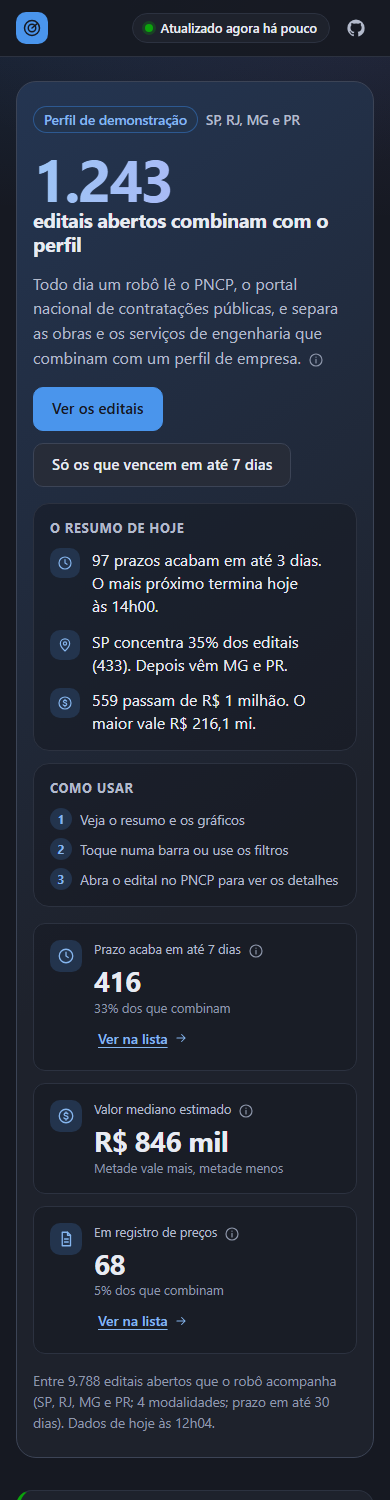
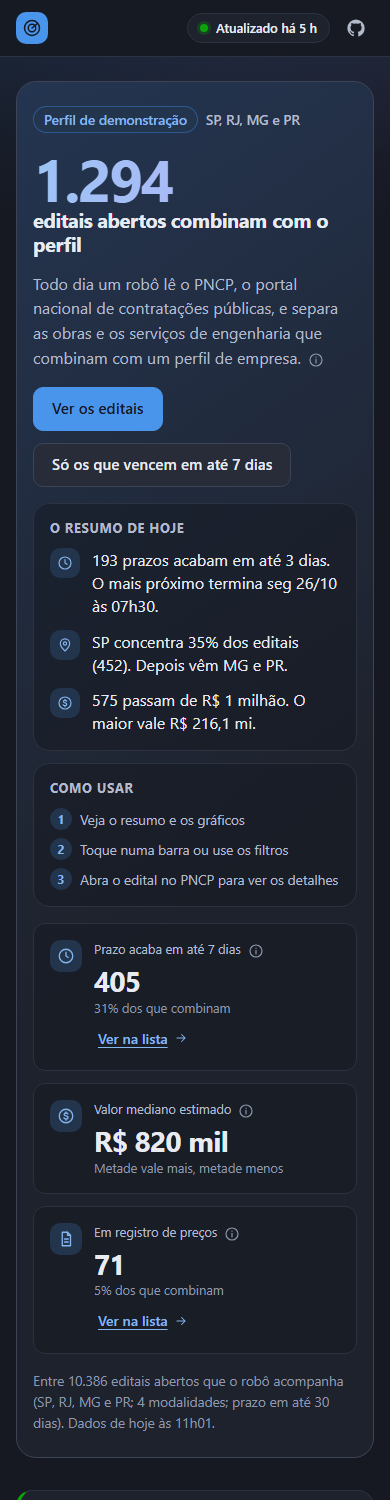
docs: README e fotos com a execução de 24/10/2026
- Resultado da execução de 24/10: 10.386 abertos acompanhados, 1.367 no filtro (1.294 combinam e
  73 em parte), 2.027 lidos e 774 novos em 18 min, 100 conferidos um a um, 5 rodadas agendadas
  seguidas com sucesso (20 a 24/10)
- Exemplo do Telegram com os dados reais de 24/10
- Números medidos: rodada de 24/10 (211 chamadas, nenhum 429)
- Limitação: a conferência diária faz até 100 consultas por rodada (em 24/10 eram 197; os outros
  97 entram nos dias seguintes)
- Decisões: o edital repetido também junta quando o prazo difere em até 1 minuto
- Fotos do painel refeitas a partir da página no ar

diff --git a/README.md b/README.md
@@ -34,7 +34,7 @@ O **PNCP** (Portal Nacional de Contratações Públicas) reúne as licitações 
 
 O Radar faz essa busca sozinho: um robô agendado lê o PNCP, dá uma nota de 0 a 100 a cada edital, separa os que combinam com o perfil de uma empresa, avisa no Telegram e mantém um painel público com os que ainda estão abertos. Construí o projeto para mostrar, na prática, uma automação agendada de ponta a ponta: roda sozinha todos os dias, sem servidor e sem custo, e **avisa quando para de funcionar**.
 
-**Resultado da execução de 23/10/2026:** 9.788 editais abertos acompanhados em SP, RJ, MG e PR, dos quais 1.317 passaram pelo filtro do perfil (1.243 combinam e 74 combinam só em parte). A rodada leu 2.244 registros do PNCP (1.059 novos) em 20 minutos, conferiu um a um 95 editais com prazo próximo (1 já estava excluído) e não teve nenhum bloqueio da API. Desde 20/10 o robô rodou sozinho 4 vezes (20, 21, 22 e 23/10), todas com sucesso.
+**Resultado da execução de 24/10/2026:** 10.386 editais abertos acompanhados em SP, RJ, MG e PR, dos quais 1.367 passaram pelo filtro do perfil (1.294 combinam e 73 combinam só em parte). A rodada leu 2.027 registros do PNCP (774 novos) em 18 minutos, conferiu um a um 100 editais com prazo próximo (1 estava diferente da lista e foi atualizado) e não teve nenhum bloqueio da API. Desde 20/10 o robô rodou sozinho 5 vezes (de 20 a 24/10), todas com sucesso.
 
 > O perfil que vem no projeto é de **demonstração**: uma construtora de médio porte (obras e manutenção predial) em SP, RJ, MG e PR. [Veja abaixo exatamente o que ele considera.](#-qual-perfil-está-configurado) O painel é um apoio, não uma recomendação: confira sempre o edital no PNCP.
 
@@ -129,28 +129,32 @@ Se uma empresa pedir outro filtro ou outra coluna, o dado entra e passa a aparec
 
 ## 📲 O que chega no Telegram
 
-Exemplo no formato atual, com os dados reais de 22/10/2026 (recortado):
+Exemplo no formato atual, com os dados reais de 24/10/2026 (recortado):
 
 ```
-📡 Radar PNCP · 22/10/2026
-87 editais novos combinam com o perfil, entre 812 novos lidos hoje. Os 10 que mais combinam:
+📡 Radar PNCP · 24/10/2026
+86 editais novos combinam com o perfil, entre 774 novos lidos hoje. Os 10 que mais combinam:
 🔎 Ver todos no painel
 
-Combina muito · Execução da obra de construção do novo Fórum da Comarca de São João do Paraíso.
-🏛 Tribunal de Justiça do Estado de Minas Gerais · 📍 Belo Horizonte / MG
-💰 R$ 11,7 mi · 📄 Concorrência Eletrônica nº 627/2026
-⏰ propostas até 16/11 09:00 (em 25 dias)
+Combina muito · Execução de Obras de Pavimentação Asfáltica na Estrada Água da Fonte, Objeto Vinculado ao Convênio Nº. 090/2026 – Secretaria de Infraestrutura e Logística –Seil com…
+🏛 Município de Farol · 📍 Farol / PR
+💰 R$ 13,5 mi · 📄 Concorrência Eletrônica nº 02/2026
+⏰ propostas de 26/10 até 11/11 08:55 (em 18 dias)
 🔗 PNCP · sistema de origem
 
 (...)
 
 ⏳ Prazos chegando (vencem em 2 a 7 dias)
 
-Combina · Contratação de Empresa Especializada para Execução de Serviços de Calçamento em Estradas Vicinais do Município, com Fornecimento de Materiais e Mão de Obra.
-🏛 Município de Brás Pires · 📍 Brás Pires / MG
-💰 R$ 245 mil · 📄 Concorrência Eletrônica nº 05/2026
-⏰ propostas até 26/10 07:59 (em 4 dias)
+Combina · Contratação de empresa especializada para execução da complementação da construção da Escola Municipal Tancredo Neves, no Bairro Dom Alexandre, município de Santa…
+🏛 Município de Santa Vitória · 📍 Santa Vitória / MG
+💰 R$ 1,1 mi · 📄 Concorrência Eletrônica nº CE 008/26
+⏰ propostas até 26/10 12:50 (em 2 dias)
 🔗 PNCP · sistema de origem
+
+(...)
+
+🔎 Mais 344 outros vencem nesse período: ver no painel
 ```
 
 Como ler: **Combina muito** é nota 80 ou mais, **Combina** vai de 60 a 79 e **Combina em parte** de 40 a 59. Abaixo de 40 o robô não avisa.
@@ -235,7 +239,7 @@ flowchart TD
 | Isolar o **cliente da API** em `pncp_client.py` | Só ele conhece URL e parâmetros; trocar de endpoint não espalha mudança |
 | Gravar por **upsert** em `numeroControlePNCP` | Editais mudam de situação e de prazo depois de publicados |
 | **Ler os alterados e conferir no PNCP** | Só a listagem por publicação nunca revê um edital já guardado. Detalhes em [`docs/qualidade-dados-pncp.md`](docs/qualidade-dados-pncp.md) |
-| **Juntar o edital repetido**, não esconder | O órgão às vezes publica o mesmo edital duas vezes (mesmo órgão, valor, prazo e texto). Os dois registros existem no PNCP, então o robô os junta num item só (o publicado por último é o principal) e mostra o número e o link do outro. No alerta, cada registro é conferido antes, para o link nunca apontar para um edital excluído |
+| **Juntar o edital repetido**, não esconder | O órgão às vezes publica o mesmo edital duas vezes (mesmo órgão, valor, texto e prazo, com até 1 minuto de diferença). Os dois registros existem no PNCP, então o robô os junta num item só (o publicado por último é o principal) e mostra o número e o link do outro. No alerta, cada registro é conferido antes, para o link nunca apontar para um edital excluído |
 | Dar a nota por **regras que se explicam**, sem IA | Cada nota vem com os motivos; dá para calibrar o perfil olhando o `--dry-run`. Regras firmes separam obra de compra, locação e serviço de escritório (consultoria, fiscalização, projeto); os casos reais estão em `tests/fixtures/casos_reais_filtro.json` |
 | Nunca deixar o **token do Telegram** vazar | O token vai na URL da API; os logs do `httpx` ficam em WARNING e as mensagens de erro passam por filtro |
 | Escrever o **texto em caixa normal** só na tela | Igual no Telegram e na página (mesmas regras em Python e TypeScript, com testes dos dois lados). O texto guardado não muda |
@@ -336,7 +340,7 @@ Há exemplos em [`queries/`](queries): editais abertos, volume por UF, qualidade
 
 Cada execução vira uma linha em `pipeline_runs`: início, fim, duração, status (`success`, `partial`, `failed`), janela, buscas e falhas, chamadas à API, 429, linhas lidas/novas/atualizadas/inválidas, prazos e situações corrigidos, relevantes novos, avisos de qualidade, alerta enviado e erro.
 
-Até 23/10/2026 o robô rodou sozinho 4 vezes (20, 21, 22 e 23/10), todas com sucesso. A de 23/10, a primeira com a conferência diária dos que vencem logo: 20 min, 228 chamadas à API, nenhum bloqueio 429, 2.244 editais lidos e 1.059 novos. A de 22/10 levou 14 min, com 129 chamadas. **Horas economizadas** seguem como estimativa, com premissas ainda não validadas, em [`docs/metodologia-horas.md`](docs/metodologia-horas.md).
+Até 24/10/2026 o robô rodou sozinho 5 vezes (de 20 a 24/10), todas com sucesso. A de 24/10: 18 min, 211 chamadas à API, nenhum bloqueio 429, 2.027 editais lidos e 774 novos. A de 23/10, a primeira com a conferência diária dos que vencem logo, levou 20 min, com 228 chamadas e 1.059 novos; a de 22/10 levou 14 min, com 129 chamadas. **Horas economizadas** seguem como estimativa, com premissas ainda não validadas, em [`docs/metodologia-horas.md`](docs/metodologia-horas.md).
 
 </details>
 
@@ -365,6 +369,7 @@ Até 23/10/2026 o robô rodou sozinho 4 vezes (20, 21, 22 e 23/10), todas com su
 * O robô só vê as UFs e modalidades do `config.yaml` (hoje SP, RJ, MG e PR; concorrência e pregão). Dispensas de licitação ficam de fora até o volume ser medido. O estado é o do órgão, que pode não ser o local da obra.
 * Obras abaixo de R$ 100 mil e acima de R$ 20 mi ficam fora, por desenho do perfil. Assuntos cujas palavras aparecem também fora de obra ("ponte", "drenagem", "esgotamento sanitário") foram testados e rejeitados por trazer lixo.
 * "Fornecimento e instalação de..." conta como serviço, mas pode ser equipamento. Um serviço sem relação pode passar quando o nome da secretaria traz "Obras" ou "Engenharia" no meio do texto.
+* A conferência diária dos que vencem em até 3 dias faz no máximo 100 consultas por execução, o que vence primeiro antes. Em 24/10 eram 197: os 100 primeiros foram conferidos e os outros 97 entram nos dias seguintes, conforme o prazo chega mais perto.
 * A conferência semanal cobre prazos de até 14 dias e no máximo 150 editais por execução; o resto é visto quando a listagem trouxer. A carga inicial e a página cobrem prazos de até 30 dias.
 * A página lê o arquivo direto do GitHub, que guarda uma cópia por até 5 minutos. Um prazo prorrogado só aparece depois da próxima execução; um edital que venceu some na hora.
 * Se o robô ficar parado mais de 1 dia, as prorrogações desse intervalo só voltam na conferência de domingo ou com um `backfill`.
